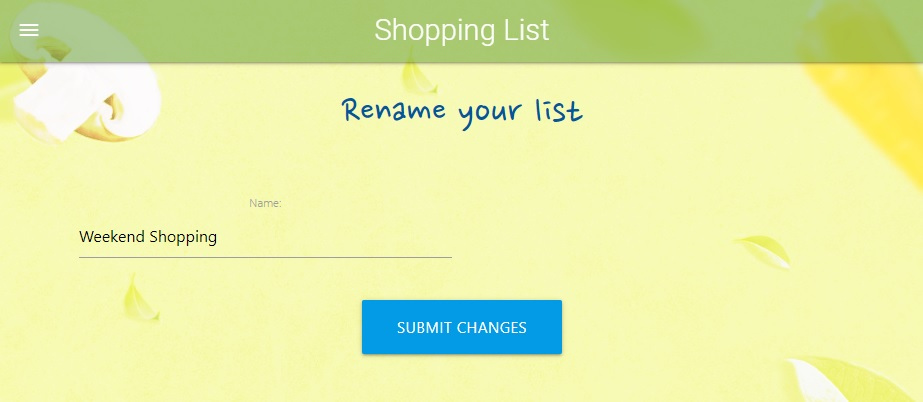
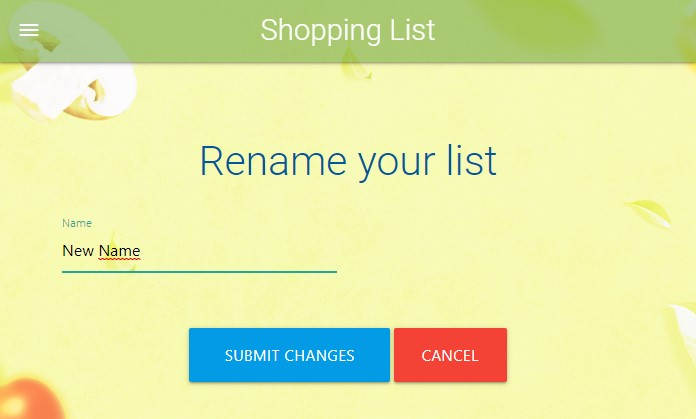
Fix minor issues in the ReadMe section. Update the content and screenshots.

diff --git a/README.md b/README.md
@@ -4,10 +4,10 @@
 
 ## 1. Overview.
 
-Portfolio Porject 4.
+Portfolio Project 4.
 The subject of the project is the web shopping list application. 
-This is a very simple and easy to use application that offers the user few basic functionalities, such as to create, add and manage items. 
-It also allows the user to register his own account what gives him an access to addintional useful functions that are accessible only for registered users.
+This is a very simple and easy to use application that offers users a few basic functionalities, such as creating multiple shopping lists managing those lists and adding items to the lists, updating them or deleting them from the lists. 
+It also allows the user to register his own account what gives him an access to application functionalities.
 
 
 ## Contents:
@@ -39,13 +39,11 @@ It also allows the user to register his own account what gives him an access to 
 
 - As a user I would like to mark items as bought, so the bought items will be separated from items to buy.
 
-- As a user I would like to mark items as bought, so the bought items will be separated from items to buy.
-
 - As a user I would like to edit or delete items.
 
 - As a user I would like to clear the list with one click after my shoppings are done, so I don't have to delete each item separately.
 
-- As a registered user I would like to be able to log in to get access to additional functions.
+- As a registered user I would like to be able to create an account so my shopping list are not visible to other users.
 
 - As a user I would like to be able to create more than just one list, so I can create separate lists for different occasions and different users.
 
@@ -66,7 +64,7 @@ It also allows the user to register his own account what gives him an access to 
 
 
 ## **3. Features**
-The application is made of three main sections:
+The application is made of four main sections:
 - Home Page.
 - Lists section.
 - Lists items view.
@@ -75,9 +73,9 @@ The application includes following sections.
 
 
 ### **Home Page**
-Home Page contain a short introduction to the application.
+Home Page contains a short introduction to the application.
 
-In case of logged in user the Home Page displays last three list previously created by the user. There is also a button which redirects the user to the lists page where he can add more list and to manage already existing lists.
+In case of a logged in user the Home Page displays last three lists previously created by the user. There is also a button which redirects the user to the lists page where he can add more list and to manage already existing lists.
 
 ![Home Page](documentation/images/components/home_page1.jpg)
 
@@ -107,11 +105,11 @@ In smaller size devices the navigation bar buttons are moved to the pop up side 
 
 Not logged in users view.
 
-![Top Navbar](documentation/images/components/side_navbar_1.jpg)
+![Side Navbar](documentation/images/components/side_navbar_1.jpg)
 
 Logged in users view.
 
-![Top Navbar](documentation/images/components/side_navbar11.jpg)
+![Side Navbar](documentation/images/components/side_navbar11.jpg)
 
 
 #### **Footer**  
@@ -127,9 +125,9 @@ This page is only accessible for logged in users and it allows users to create n
 
 ### **Shopping List Page**
 
-![List](documentation/images/components/list_view_1.jpg)
-
 This section displays items added to the list. It also allows to add new Items by cliking Add Item Button or to edit existing Items by clicking Edit Item Button:
+
+![List](documentation/images/components/list_view_1.jpg)
 
 In this section the user can also click the green round button:
 
@@ -153,7 +151,15 @@ More information about editing items [here](#edit-item)
 
 ### **Create a new list**
 
+Click "Add New List" button which is placed on the bottom of the List Page to create a new Shopping List.
+
+![Create List](documentation/images/components/add_list_button.jpg)
+
+Name your list and click "Create List" button to submit the lists name or click "Cancel" button to cancel the process.
+
 ![Create List](documentation/images/components/create_list.jpg)
+
+After submiting your choice you should be redirected to the Lists Page.
 
 
 ### **Edit list**
@@ -162,7 +168,11 @@ To change the name of a list click Edit button.
 
 ![Edit List](documentation/images/components/edit_list.jpg)
 
-![Edit List](documentation/images/components/list_update_message.jpg)
+Then enter the new Lists name or click "Cancel" to return to the Lists Page.
+
+![Edit List](documentation/images/components/edit_list2.jpg)
+
+If the user submits the changes, he should be redirected to the Lists Page and an information message should be displayed.
 
 
 ### **Delete list**
@@ -173,6 +183,7 @@ To delete an existing List click Delete button. After approving that you want to
 
 
 ### **Add Item**
+
 This section displays a form that allows creating and adding a new item to the list.
 
 ![Add Item](documentation/images/components/add_item_1.jpg)
@@ -211,12 +222,12 @@ Login Page allows the user to login to his account what will give him access to 
 
 ## **About Page** 
 
-Contains information about the application, contact information and copyrights.
+This Page contains information about the application, contact information and copyrights.
 
 ![About Page](documentation/images/components/about_page.jpg)
 
 ## **List Class:**
-List class contains attributes such as: name and create_date, also it contains a variable of type slug.
+The List class contains attributes such as: name and create_date, also it contains a variable of type slug.
 ```python
     class List(models.Model):
         list_owner = models.ForeignKey(User, on_delete=models.CASCADE)
@@ -236,7 +247,7 @@ Slug variable is generated automatically based on the items name.
 
 ## **Item Class:**
 
-Item class is the basic shopping list item.
+The Item class is the basic shopping list item.
 
 The class contains elements such as items name and quantity. 
 
@@ -244,7 +255,7 @@ Slug variable is generated automatically based on the items name.
 
 List name is the Foreign Key and it defines which Shopping List the item is assigned to. 
 
-bought variable is a boolean value set by the user with the "Mark as bought" toggle button.
+Bought variable is a boolean value set by the user with the "Mark as bought" toggle button.
 
 Favourite - allows to mark the item as favourite.
 
@@ -252,7 +263,7 @@ Urgent - items marked as urgent are going to be displayed always on the top of t
 
 Prize - allows the user to assign the prize of the item what in the future will allow to calculate the extimated value all the items on the list.
 
-Description - Allow to add short description to each item.
+Description - Allow to add a short description to each item.
 
 ```python
     class Item(models.Model):
@@ -299,13 +310,13 @@ Description - Allow to add short description to each item.
 ## **6. Testing**
 
 The Application is fully responsive and the applications code was tested using:
-* Nu Html Checker for html code.
-* W3C CSS Validator for css code.
-* Jshint for Java Script code.
-* CI Python Linter for Python code.
+* Nu Html Checker for html code https://validator.w3.org/nu/.
+* W3C CSS Validator for css code https://jigsaw.w3.org/css-validator/.
+* Jshint for Java Script code https://jshint.com/.
+* CI Python Linter for Python code https://pep8ci.herokuapp.com/.
 
 There were no issues detected by most of the test, although there where some errors implemented with add-ons.
-More details about tesings and unfixed issues are available in the dedicated testing section testing.md [here](TESTING.md).
+More details about testings and unfixed issues are available in the dedicated testing section [here](TESTING.md).
 
 ## **8. Deployment**
 

diff --git a/TESTING.md b/TESTING.md
@@ -12,9 +12,9 @@
 
     An error was detected during validation testings with use of [W3C validator](https://validator.w3.org/nu/).
 
-    According to the tests the error comes from material_forms and it is implemented form django_material. 
-    This generates: Attribute for not allowed on element span at this point Error. 
-    The same error occures in a few templates.
+    According to the tests the error comes from material_forms and it is implemented form django_material add-on. 
+    This generates: "Attribute for not allowed on element span at this point" Error. 
+    The same error occures in a few other templates.
 
 
     - Edit List Page:
@@ -31,9 +31,9 @@
 
     - Items Page
 
-        Depending on the input method the error above may occure in show_list_items.html template:
+        Depending on the input method the test shows slightly different results: 
 
-        Check by address:
+        If we enter data with Check by address the validator shows the error mensioned above:
 
         ![html_validation](documentation/images/testing/check_items.jpg)
 
@@ -45,7 +45,7 @@
 
     - Lists Page:
 
-        In case of lists_html template the situation looks similarly as in the template above. 
+        The situation looks similarly in the lists_html template. 
 
         Check by address:
 
